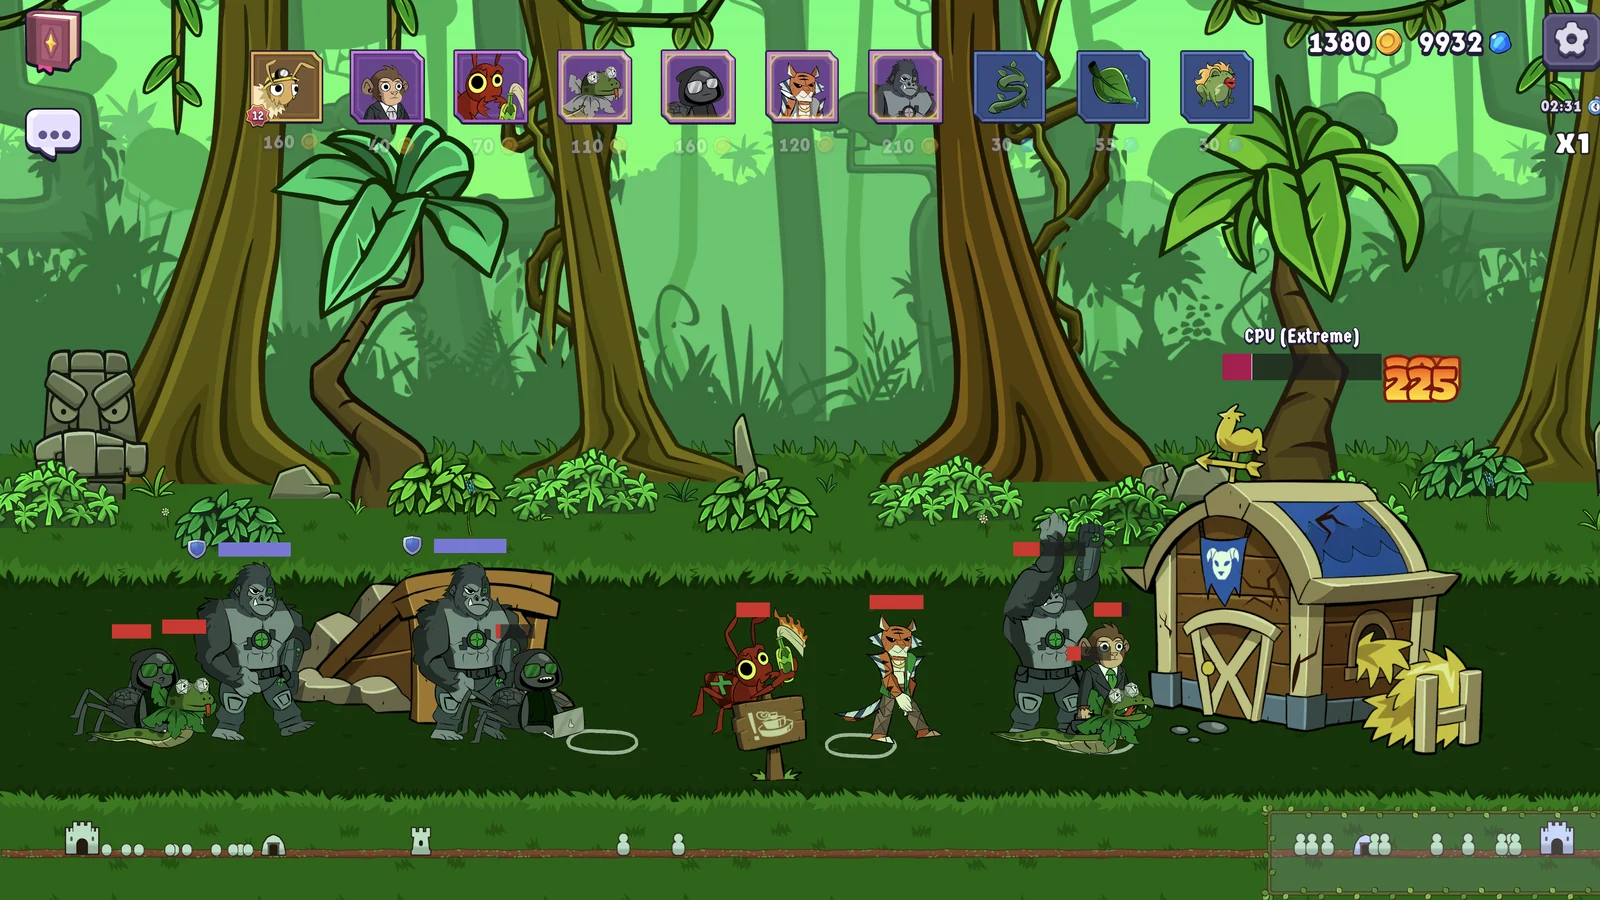
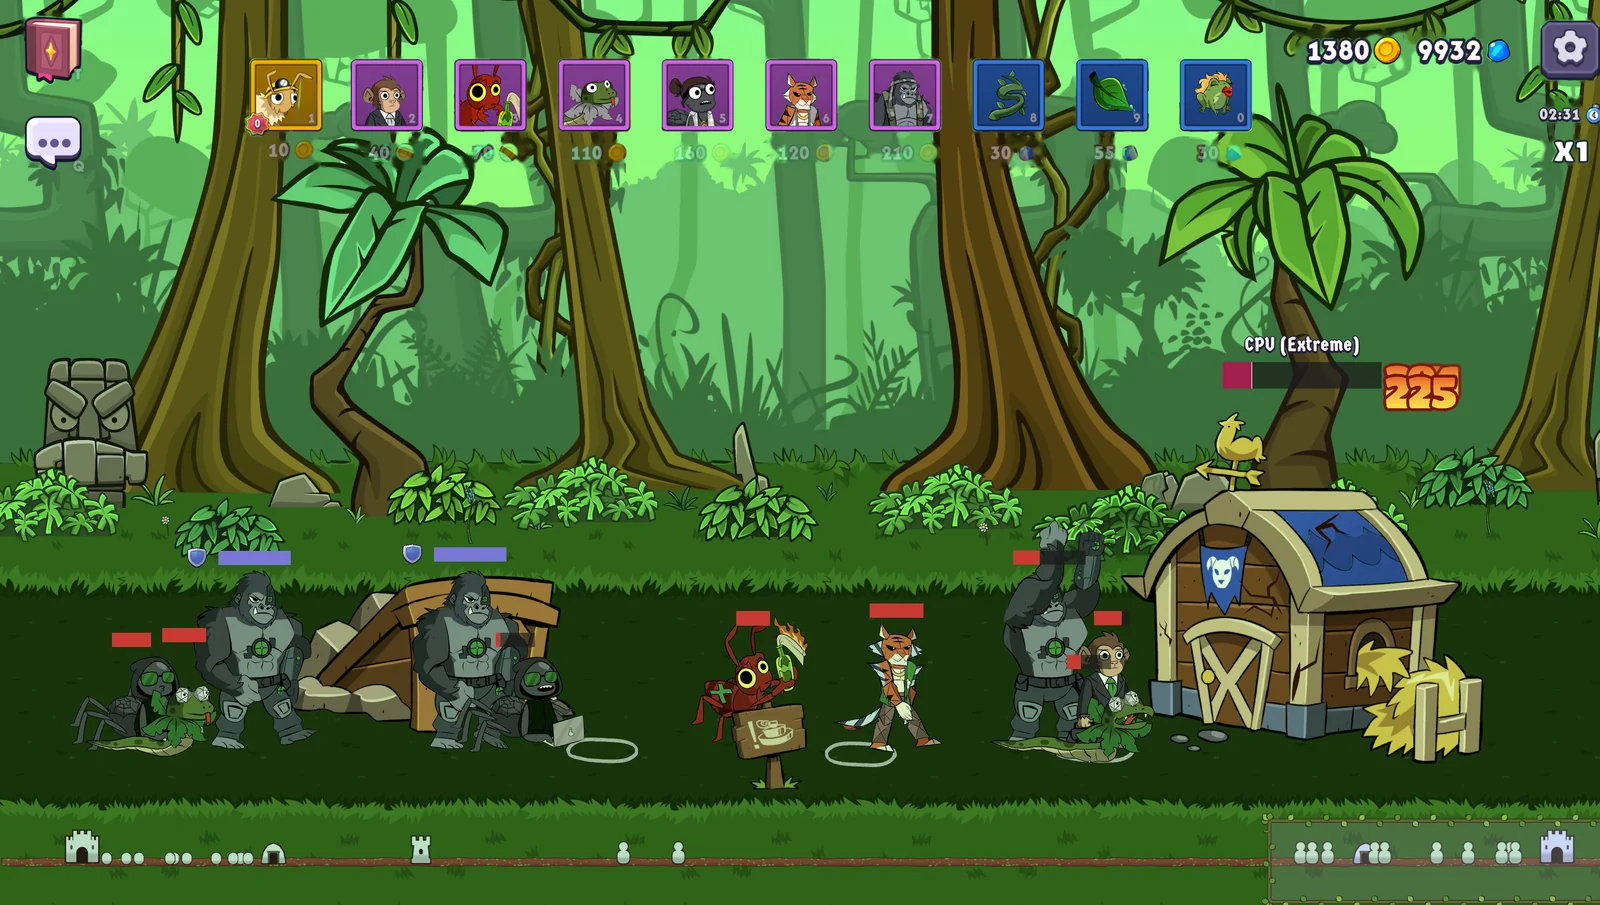
Stay in Your Lane: current Steam screenshots and new trailer

Changed region(s): [[0.0, 0.0, 1.0, 1.0], [0.9688, 0.3422, 1.0, 0.4356], [0.0, 0.28, 0.0625, 0.3111]]

diff --git a/src/data.ts b/src/data.ts
@@ -47,7 +47,7 @@ export const featured = {
   logo: "/images/siyl/logo.webp",
   poster: "/images/siyl/trailer-poster.webp",
   backdrop: "/images/siyl/bg-lane.webp",
-  trailer: "https://www.youtube-nocookie.com/embed/8XWp7XKAjxk",
+  trailer: "https://www.youtube-nocookie.com/embed/w9DblSQB2F8",
 };
 
 export const games: Game[] = [
@@ -62,7 +62,7 @@ export const games: Game[] = [
       { icon: "steam", label: "Steam", url: "https://store.steampowered.com/app/5040850/Stay_in_Your_Lane/?utm_source=portfolio" },
       { icon: "itch", label: "itch.io", url: "https://solico.itch.io/stay-in-your-lane" },
     ],
-    media: [video("8XWp7XKAjxk"), ...shots("Stay in Your Lane", ["clash-farm", "clash-jungle", "build-turret", "push-jungle", "gold-digger", "monpa-tower", "danger", "tech-herd", "tech-grove", "campaign-map", "win", "custom-battle"])],
+    media: [video("w9DblSQB2F8"), ...shots("Stay in Your Lane", ["clash-farm", "clash-jungle", "danger", "build-turret", "tech-grove", "campaign-map", "take-aim", "history", "last-stand", "clash-peaks", "push-jungle"])],
   },
   {
     name: "Not Fooling Anyone",
